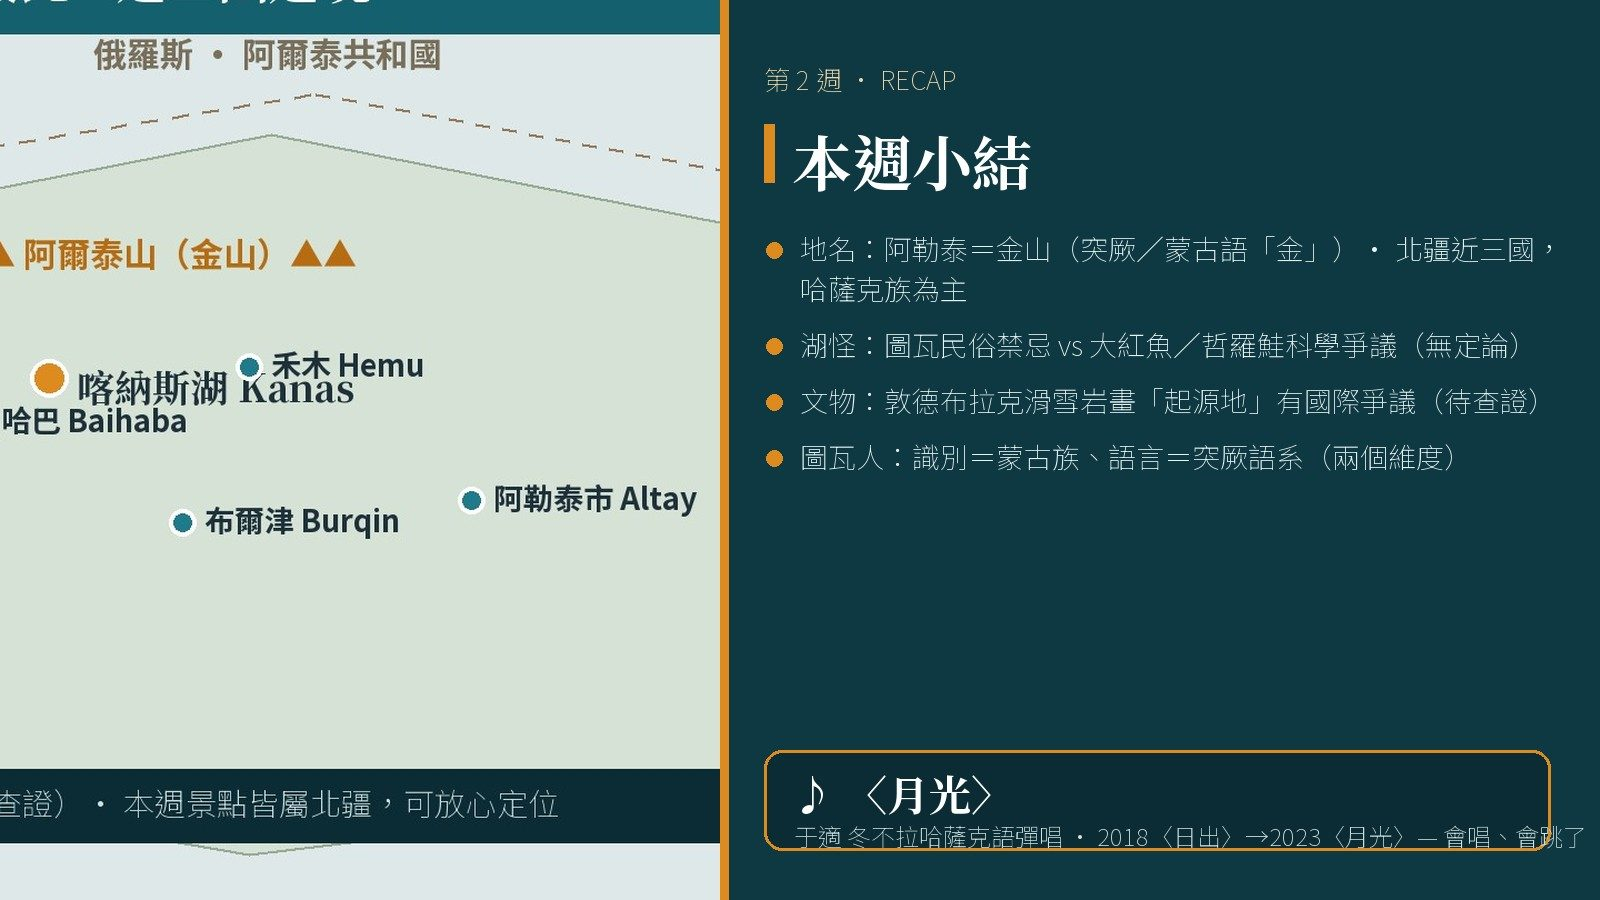
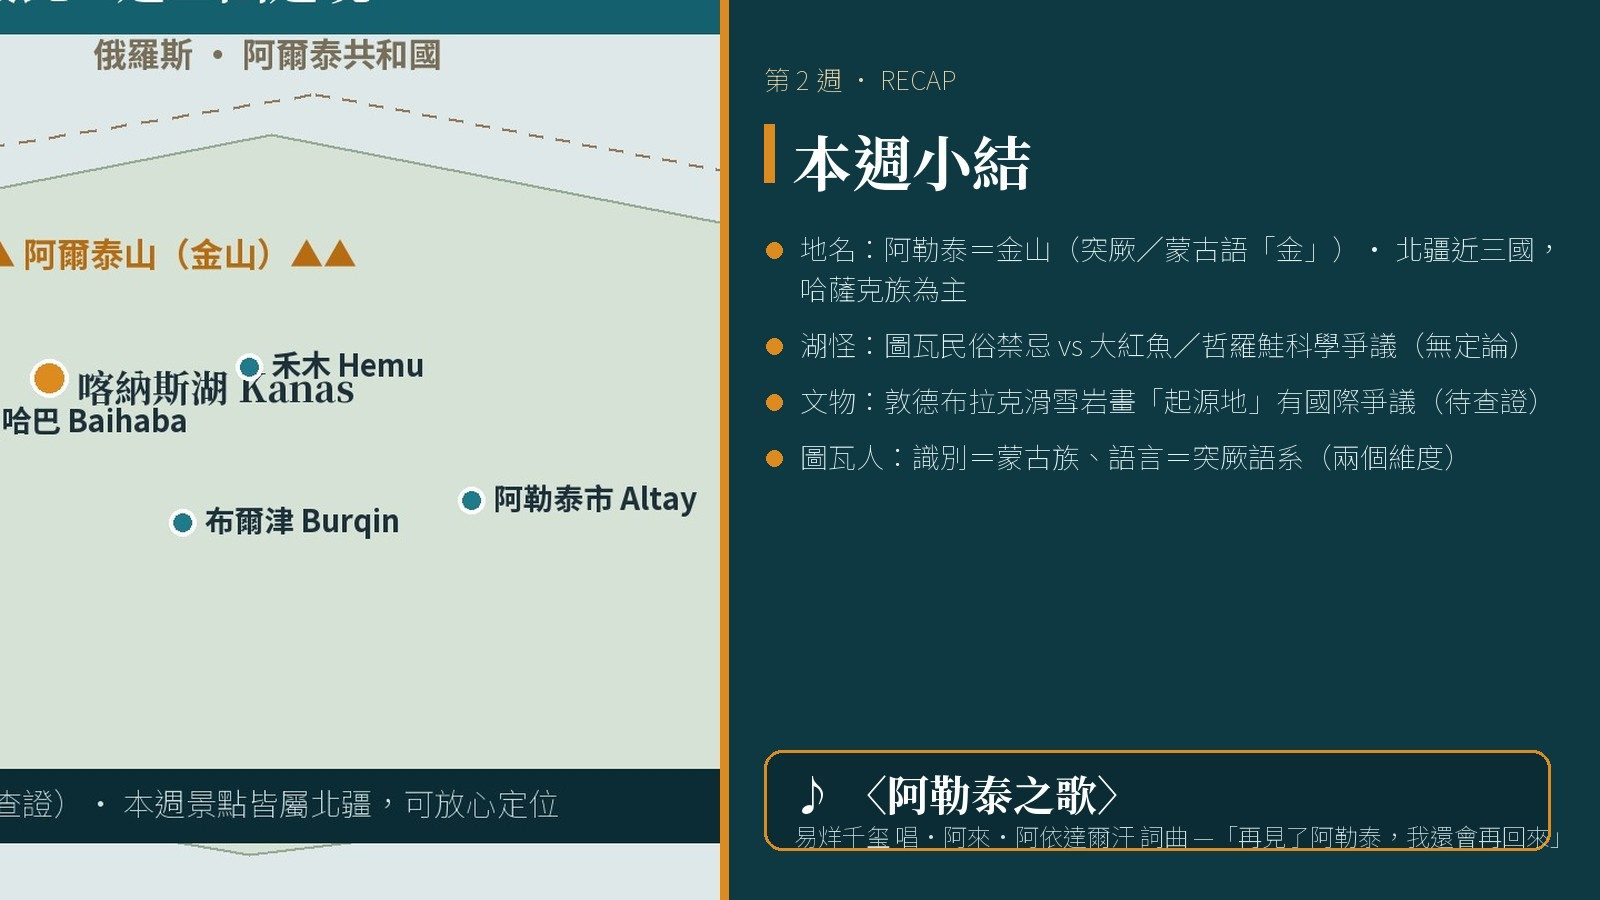
週2 改歌改人：主打歌改《阿勒泰之歌》（易烊千玺）＋帶唱簡譜＋補齊全部圖位
- 案主指定：歌改電影《我心中的那座城——阿勒泰》主題曲《阿勒泰之歌》（bfy4zLKdmIA）、藝人改易烊千玺
- 藝人段換血：少年的你/長津湖/滿江紅/小小的我 四預告＋2025金雞影帝線（皆 noembed 查證）
- 看譜頁嵌自製帶唱簡譜（1=E，依案主鋼琴譜＋彈唱譜轉寫，錨點歌詞）
- 圖位 22/22 全齊：Commons CC 實照新增 易烊千玺肖像/哈薩克牧居/通天洞出土石器；skiing-origin 改正為岩畫說明卡
- 週1 歌單與預告、youtube總表、課程總覽同步；52 張、影片 18 支

Changed region(s): [[0.5, 0.84, 0.9688, 0.9644]]

diff --git a/docs/week1.html b/docs/week1.html
@@ -21,7 +21,7 @@
 <section><div class="snum">投影片 4</div><h2>八週環線地圖：北→西→南</h2><ul><li>三大片區，一條環線：阿勒泰（北）→伊犁（西）→巴音布魯克（南）</li><li>每一站，從深度文化切入，深講一藝人、一首歌</li></ul><img class="slide-img" data-src="assets/images/%E9%80%B11/map.jpg" alt="北疆環線地圖（阿勒泰—伊犁—巴音布魯克，畫出由北而西再向南的箭頭路線）"><aside class="notes"><p><b>講稿</b><br>（停留約 40 秒）這是我們未來幾週的主地圖。北疆的精華串成一條環線：最北是阿勒泰（Altay），往西轉到伊犁（Ili），再往南繞到巴音布魯克（Bayanbulak），最後畫成一個圈。請注意我們的走法——每到一站，先從那裡的深度文化切入，再深講一首歌、一位藝人。所以這不只是一張旅遊路線圖，而是一張「文化與音樂」的地圖。今天先看輪廓，之後一站一站慢慢走。</p><p><b>講義補充</b><br>- 北疆環線三大片區：阿勒泰（北）→伊犁（西）→巴音布魯克（南）。每週走法：深度文化切入→一藝人一歌深講。</p><p><b>影片操作</b><br>無影片。
 
 ---</p></aside></section>
-<section><div class="snum">投影片 5</div><h2>八週、八首主打歌：本課音樂主軸</h2><ul><li>W1〈達坂城的姑娘〉｜王洛賓（Wang Luobin，採集）·克里木（演唱）</li><li>W2《我的阿勒泰》〈月光〉｜于適（Yu Shi）</li><li>W3〈可可托海的牧羊人〉｜王琪（Wang Qi）</li><li>W4〈草原之夜〉｜張加毅（詞）·田歌（曲）</li><li>W5〈那拉提戀歌〉｜哈薩克族（Kazakh）民歌風</li><li>W6〈鴻雁〉｜呼斯楞（Hu Siling）·東歸土爾扈特主題</li><li>W7〈2002年的第一場雪〉｜刀郎（Dao Lang）</li><li>W8〈新疆好〉｜刀郎・全場大合唱（安可）</li></ul><img class="slide-img" data-src="assets/images/%E9%80%B11/%E6%AD%8C_%E6%A8%82%E8%AD%9C%E5%89%AA%E5%BD%B1.jpg" alt="五線譜／簡譜的淡色剪影背景，配「八週・八首主打歌」字樣"><aside class="notes"><p><b>講稿</b><br>（停留約 45 秒）先把這門課的「歌單」攤開。八週、八首主打歌，每一首都會講得又深又厚：今天破冰的〈達坂城的姑娘〉，背後是採集者王洛賓、唱紅它的克里木；第二週《我的阿勒泰》的〈月光〉，于適（Yu Shi）；第三週〈可可托海的牧羊人〉，王琪（Wang Qi）；第四週〈草原之夜〉，張加毅作詞、田歌作曲；第五週〈那拉提戀歌〉，哈薩克族（Kazakh）民歌風；第六週〈鴻雁〉，呼斯楞（Hu Siling），扣著土爾扈特東歸巴音布魯克的故事；第七週刀郎（Dao Lang）的〈2002年的第一場雪〉；第八週安可，全場一起大合唱〈新疆好〉。八首歌，八個故事。</p><p><b>講義補充</b><br>- 八週八首主打歌與主角：W1〈達坂城的姑娘〉/王洛賓・克里木；W2〈月光〉/于適；W3〈可可托海的牧羊人〉/王琪；W4〈草原之夜〉/張加毅・田歌；W5〈那拉提戀歌〉/哈薩克族民歌風；W6〈鴻雁〉/呼斯楞（東歸土爾扈特主題）；W7〈2002年的第一場雪〉/刀郎；W8〈新疆好〉/刀郎・全場大合唱（安可）。</p><p><b>影片操作</b><br>無影片。
+<section><div class="snum">投影片 5</div><h2>八週、八首主打歌：本課音樂主軸</h2><ul><li>W1〈達坂城的姑娘〉｜王洛賓（Wang Luobin，採集）·克里木（演唱）</li><li>W2〈阿勒泰之歌〉｜易烊千玺（Jackson Yee）・電影《我心中的那座城——阿勒泰》主題曲</li><li>W3〈可可托海的牧羊人〉｜王琪（Wang Qi）</li><li>W4〈草原之夜〉｜張加毅（詞）·田歌（曲）</li><li>W5〈那拉提戀歌〉｜哈薩克族（Kazakh）民歌風</li><li>W6〈鴻雁〉｜呼斯楞（Hu Siling）·東歸土爾扈特主題</li><li>W7〈2002年的第一場雪〉｜刀郎（Dao Lang）</li><li>W8〈新疆好〉｜刀郎・全場大合唱（安可）</li></ul><img class="slide-img" data-src="assets/images/%E9%80%B11/%E6%AD%8C_%E6%A8%82%E8%AD%9C%E5%89%AA%E5%BD%B1.jpg" alt="五線譜／簡譜的淡色剪影背景，配「八週・八首主打歌」字樣"><aside class="notes"><p><b>講稿</b><br>（停留約 45 秒）先把這門課的「歌單」攤開。八週、八首主打歌，每一首都會講得又深又厚：今天破冰的〈達坂城的姑娘〉，背後是採集者王洛賓、唱紅它的克里木；第二週電影《我心中的那座城——阿勒泰》的主題曲〈阿勒泰之歌〉，易烊千玺（Jackson Yee）；第三週〈可可托海的牧羊人〉，王琪（Wang Qi）；第四週〈草原之夜〉，張加毅作詞、田歌作曲；第五週〈那拉提戀歌〉，哈薩克族（Kazakh）民歌風；第六週〈鴻雁〉，呼斯楞（Hu Siling），扣著土爾扈特東歸巴音布魯克的故事；第七週刀郎（Dao Lang）的〈2002年的第一場雪〉；第八週安可，全場一起大合唱〈新疆好〉。八首歌，八個故事。</p><p><b>講義補充</b><br>- 八週八首主打歌與主角：W1〈達坂城的姑娘〉/王洛賓・克里木；W2〈阿勒泰之歌〉/易烊千玺；W3〈可可托海的牧羊人〉/王琪；W4〈草原之夜〉/張加毅・田歌；W5〈那拉提戀歌〉/哈薩克族民歌風；W6〈鴻雁〉/呼斯楞（東歸土爾扈特主題）；W7〈2002年的第一場雪〉/刀郎；W8〈新疆好〉/刀郎・全場大合唱（安可）。</p><p><b>影片操作</b><br>無影片。
 
 ---</p></aside></section>
 <section data-background-color="#0E3942" class="title-slide"><div class="snum">投影片 6</div><h1>先問一個問題：北疆是哪裡？</h1><div class="lead"><div>「北疆」——到底是北邊的哪裡？</div><div>它跟「南疆」差在哪？</div><div>答案，是一條橫貫新疆的大山</div></div><aside class="notes"><p><b>講稿</b><br>（停留約 25 秒）文化切入的第一步，先問一個看似簡單、其實很多人答不清楚的問題：「北疆」，到底是北邊的哪裡？它跟「南疆」又差在哪？好消息是——答案很乾脆，靠一條橫貫新疆的大山，就能把它說明白。下一張，我們就把這條山請出來。</p><p><b>講義補充</b><br>- 「疆」指新疆；北疆、南疆的劃分依據是天山。</p><p><b>影片操作</b><br>無影片。
@@ -130,7 +130,7 @@
 <section class="panel-slide"><div class="snum">投影片 49</div><img class="slide-img" data-src="assets/images/%E9%80%B11/%E5%B0%8F%E7%B5%90.jpg" alt="本週重點視覺摘要（地圖＋樂器＋歌名小圖）"><aside class="notes"><p><b>講稿</b><br>（停留約 45 秒）我們把今天打包帶走。第一，北疆就是天山以北的準噶爾盆地，靠天山的雪水，養出了湖泊、草原、森林。第二，這裡自古是條走廊：草原絲路千年往來，民族也一波波更替——月氏、烏孫、突厥、準噶爾，最後清朝在1884年設了新疆省。第三，達坂城的「達坂」意思是山口，是座有名的風城；至於那位姑娘的由來，多半是「相傳」。第四，文化的底蘊——木卡姆2005年成了世界非遺、會說話的樂器、還有「民歌採集」這件事。第五，也是最重要的，人與歌：西部歌王王洛賓，在1938年採集改編了〈達坂城的姑娘〉，而這首歌，我們今天已經會唱、會跳了。五件事記住，你今天就沒白來。</p><p><b>講義補充</b><br>- 本週五大重點：①北疆＝天山以北（準噶爾盆地）、雪水養綠 ②草原絲路與民族更替（…→清1884建省）③達坂城＝山口、風城；姑娘由來多屬相傳 ④文化底蘊：木卡姆（2005 UNESCO）、樂器、民歌採集 ⑤王洛賓採集改編〈達坂城的姑娘〉（1938）。</p><p><b>影片操作</b><br>無影片。
 
 ---</p></aside></section>
-<section data-background-color="#0E3942" class="title-slide"><div class="snum">投影片 50</div><h1>下週預告：阿勒泰與《我的阿勒泰》</h1><div class="lead"><div>第2週：正式踏上環線第一站——最北的阿勒泰</div><div>喀納斯與圖瓦秘境，人類滑雪的搖籃，湖怪的傳說</div><div>一首歌：《我的阿勒泰》主題曲〈月光〉（于適）</div></div><img class="slide-img" data-src="assets/images/%E9%80%B11/%E4%B8%8B%E9%80%B1%E9%A0%90%E5%91%8A.jpg" alt="阿勒泰／喀納斯神秘湖景大圖，壓上「下週見」"><aside class="notes"><p><b>講稿</b><br>（停留約 30 秒）最後，給大家留個念想。今天我們做的是序章，下週就要正式踏上環線的第一站——最北的阿勒泰。那裡有喀納斯與圖瓦人的秘境、被稱為「人類滑雪搖籃」的古老岩畫，還藏著湖怪的傳說。而我們下週要深講的歌，是熱播劇《我的阿勒泰》的主題曲〈月光〉，唱的人是于適。記得我們的主線嗎？一處風景、一首歌——下週，我會帶著新的風景和新的歌，在阿勒泰等你。</p><p><b>講義補充</b><br>- 第2週：阿勒泰／喀納斯與圖瓦秘境、人類滑雪起源、湖怪傳說；主打歌《我的阿勒泰》〈月光〉（于適）。</p><p><b>影片操作</b><br>無影片。
+<section data-background-color="#0E3942" class="title-slide"><div class="snum">投影片 50</div><h1>下週預告：阿勒泰與《我的阿勒泰》</h1><div class="lead"><div>第2週：正式踏上環線第一站——最北的阿勒泰</div><div>喀納斯與圖瓦秘境，人類滑雪的搖籃，湖怪的傳說</div><div>一首歌：電影主題曲〈阿勒泰之歌〉（易烊千玺）</div></div><img class="slide-img" data-src="assets/images/%E9%80%B11/%E4%B8%8B%E9%80%B1%E9%A0%90%E5%91%8A.jpg" alt="阿勒泰／喀納斯神秘湖景大圖，壓上「下週見」"><aside class="notes"><p><b>講稿</b><br>（停留約 30 秒）最後，給大家留個念想。今天我們做的是序章，下週就要正式踏上環線的第一站——最北的阿勒泰。那裡有喀納斯與圖瓦人的秘境、被稱為「人類滑雪搖籃」的古老岩畫，還藏著湖怪的傳說。而我們下週要深講的歌，是獻給阿勒泰的電影主題曲〈阿勒泰之歌〉，唱的人是易烊千玺。記得我們的主線嗎？一處風景、一首歌——下週，我會帶著新的風景和新的歌，在阿勒泰等你。</p><p><b>講義補充</b><br>- 第2週：阿勒泰／喀納斯與圖瓦秘境、人類滑雪起源、湖怪傳說；主打歌〈阿勒泰之歌〉（易烊千玺，電影《我心中的那座城——阿勒泰》主題曲）。</p><p><b>影片操作</b><br>無影片。
 
 ---</p></aside></section>
 <section data-background-color="#0E3942" class="title-slide"><div class="snum">投影片 51</div><h1>謝謝，下週見</h1><div class="lead"><div>北疆景物・第1週 完</div><div>帶著今天的地圖、樂器與歌聲，我們下週上路</div><div>一處風景、一首歌、一個人</div></div><img class="slide-img" data-src="assets/images/%E9%80%B11/closing.jpg" alt="夕陽下的北疆環線公路收尾大圖"><aside class="notes"><p><b>講稿</b><br>（停留約 25 秒）北疆景物第一週，到這裡告一段落。謝謝大家今天的參與——我們一起把北疆放上了地圖，認識了它的歷史、文物與音樂，也唱了、跳了第一首歌。帶著今天的地圖、樂器與歌聲，我們下週準時上路。別忘了那三個字：一處風景、一首歌、一個人。下週見！</p><p><b>講義補充</b><br>- 課後可延伸：找一段木卡姆或都塔爾演奏聽聽，或重溫克里木版〈達坂城的姑娘〉，把今天的「新疆的聲音」記在心裡。</p><p><b>影片操作</b><br>無影片。</p></aside></section>